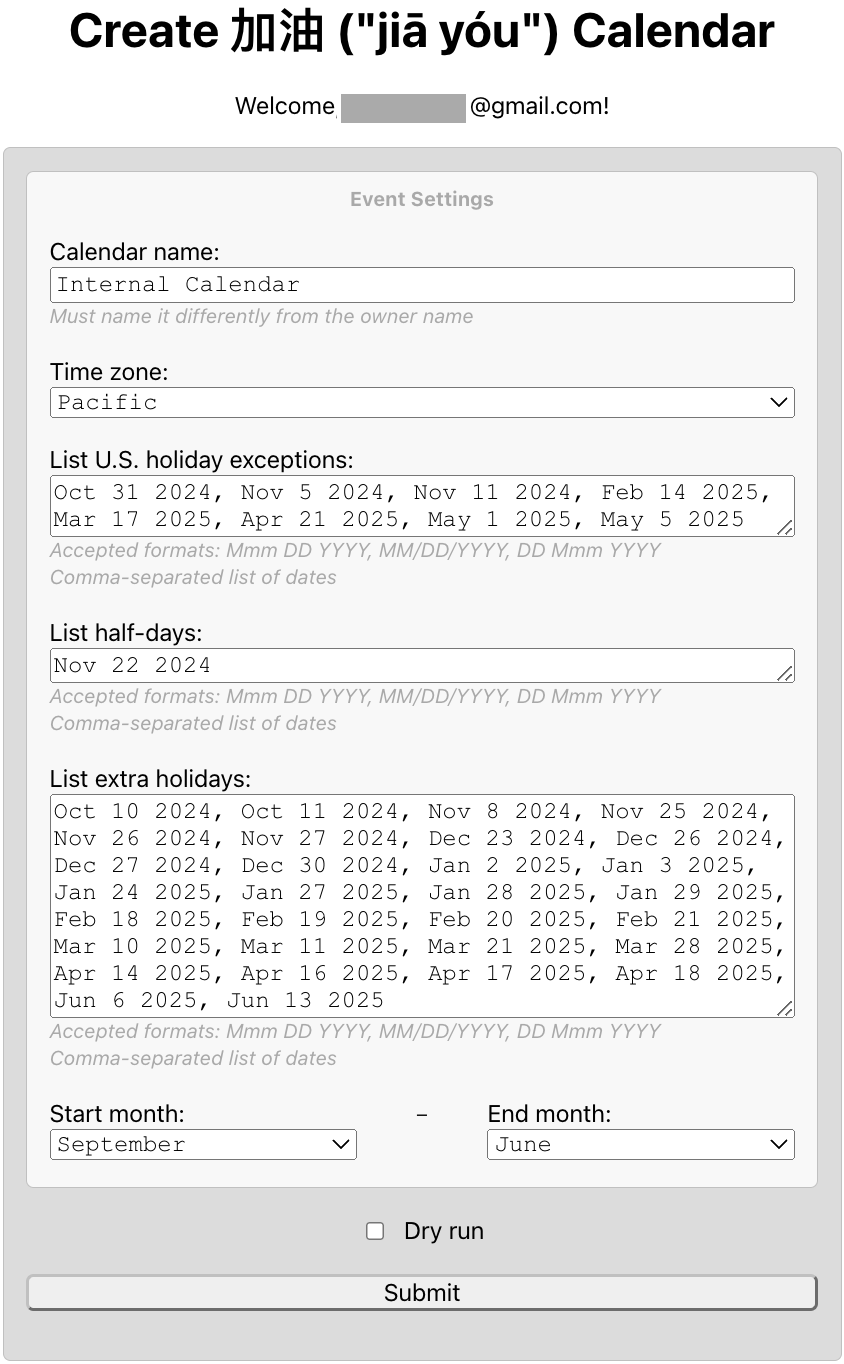
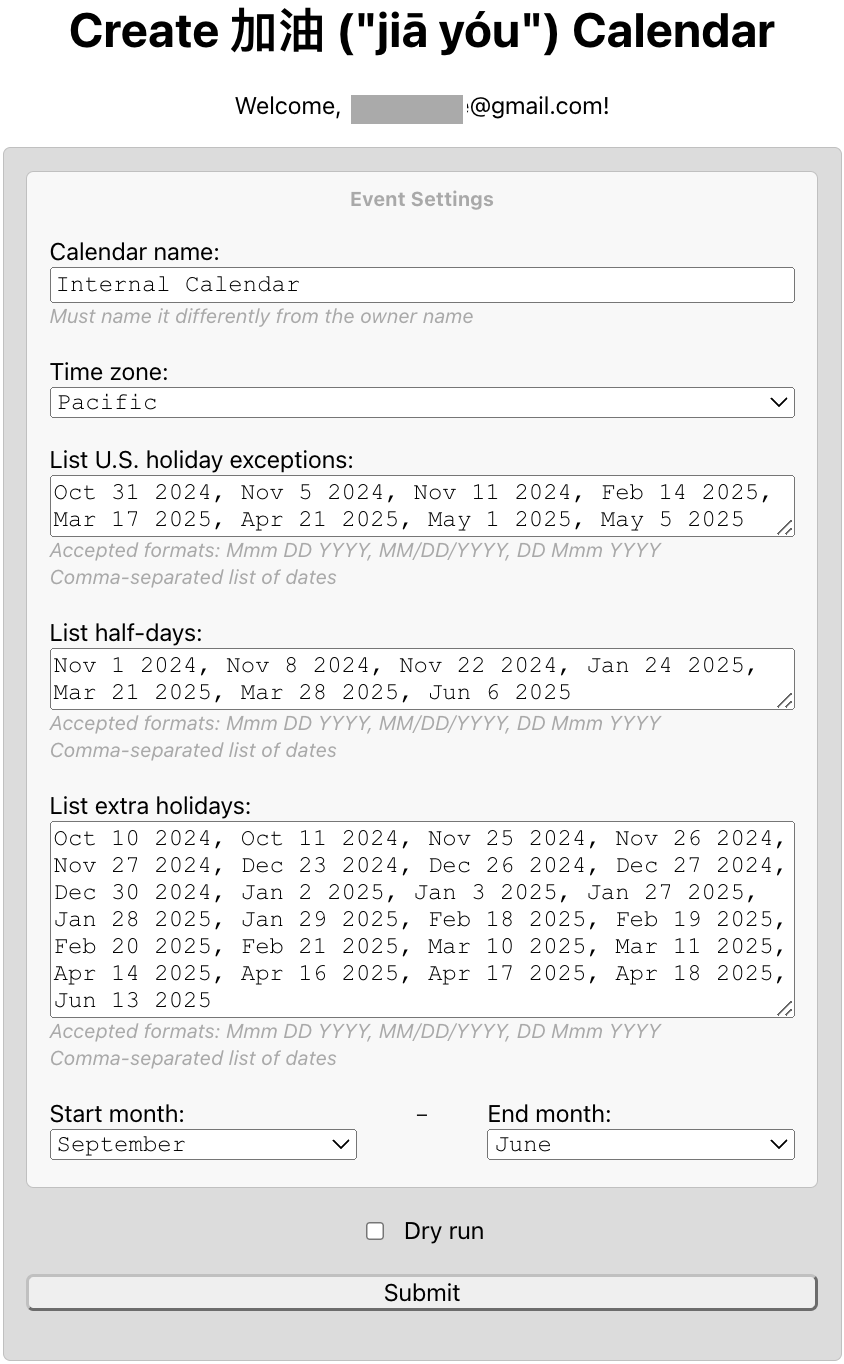
treat half-days as non-letter days

diff --git a/Index.html b/Index.html
@@ -173,13 +173,12 @@ Oct 31 2024, Nov 5 2024, Nov 11 2024, Feb 14 2025, Mar 17 2025, Apr 21 2025, May
           type="text"
           id="halfDays"
           name="halfDays"
-          rows="1"
+          rows="2"
           placeholder="Optional"
         >
-Nov 22 2024</textarea
+Nov 1 2024, Nov 8 2024, Nov 22 2024, Jan 24 2025, Mar 21 2025, Mar 28 2025, Jun 6 2025</textarea
         >
-        <!-- potentially not half days: Nov 1 2024, Nov 8 2024, Jan 24 2025, Mar 21 2025, Mar 28 2025, Jun 6 2025 -->
-        <!-- had made more room for additional exceptions -->
+        <!-- made more room for additional exceptions -->
         <!-- prefilled for convenience and clarity -->
         <text>Accepted formats: Mmm DD YYYY, MM/DD/YYYY, DD Mmm YYYY</text
         ><!-- need to stay generalized --><br />
@@ -193,13 +192,11 @@ Nov 22 2024</textarea
           type="text"
           id="extraHolidays"
           name="extraHolidays"
-          rows="8"
+          rows="7"
           placeholder="Optional"
         >
-Oct 10 2024, Oct 11 2024, Nov 8 2024, Nov 25 2024, Nov 26 2024, Nov 27 2024, Dec 23 2024, Dec 26 2024, Dec 27 2024, Dec 30 2024, Jan 2 2025, Jan 3 2025, Jan 24 2025, Jan 27 2025, Jan 28 2025, Jan 29 2025, Feb 18 2025, Feb 19 2025, Feb 20 2025, Feb 21 2025, Mar 10 2025, Mar 11 2025, Mar 21 2025, Mar 28 2025, Apr 14 2025, Apr 16 2025, Apr 17 2025, Apr 18 2025, Jun 6 2025, Jun 13 2025</textarea
+Oct 10 2024, Oct 11 2024, Nov 25 2024, Nov 26 2024, Nov 27 2024, Dec 23 2024, Dec 26 2024, Dec 27 2024, Dec 30 2024, Jan 2 2025, Jan 3 2025, Jan 27 2025, Jan 28 2025, Jan 29 2025, Feb 18 2025, Feb 19 2025, Feb 20 2025, Feb 21 2025, Mar 10 2025, Mar 11 2025, Apr 14 2025, Apr 16 2025, Apr 17 2025, Apr 18 2025, Jun 13 2025</textarea
         >
-        <!-- missing: Mar 21 2025, Mar 28 2025, Jun 6 2025, Jun 13 2025, Jan 24 2025 -->
-        <!-- duplicate: Apr 17 2025 -->
         <!-- redundant: Nov 1 2024, Nov 28 2024, Nov 29 2024, Dec 24 2024, Dec 25 2024, Dec 31 2024, Jan 1 2025, Jan 20 2025, Feb 17 2025, Apr 15 2025, May 26 2025 -->
         <!-- made more room for additional exceptions -->
         <!-- prefilled for convenience and clarity -->

diff --git a/README.md b/README.md
@@ -22,7 +22,7 @@ Access to [Google Apps Script](https://script.google.com/)
 6. Deploy the project as a Web app, and open the assigned URL.
 7. Check the username to ensure that you opened the URL in the correct account.
 8. Modify the calendar name and time zone. (**_Must name it differently from the owner name, otherwise the app will not create the calendar._**)
-9. Add any exceptions to the U.S. holiday schedule, any half-days, and any extra holidays. (Exceptions tell the app script to create events on these holidays; half-days tell the app script to repeat this event once; and extra holidays tell the app script _not_ to create events on these non-holidays.)
+9. Add any exceptions to the U.S. holiday schedule, any half-days, and any extra holidays. (Exceptions tell the app script to create events on these holidays; half-days tell the app script to skip this day; and extra holidays tell the app script _not_ to create events on these non-holidays.)
 10. Modify the start and end months. (If the start month is greater than the end month, then the calendar will roll over to the new year.)
 11. Optionally perform a dry run to test the Web app before running it in production. Consult logs for output.
 12. Press submit. (Requires another authorization. **_Note also that creating calendars is subject to a [use limit](https://support.google.com/a/answer/2905486?hl=en)._**)
